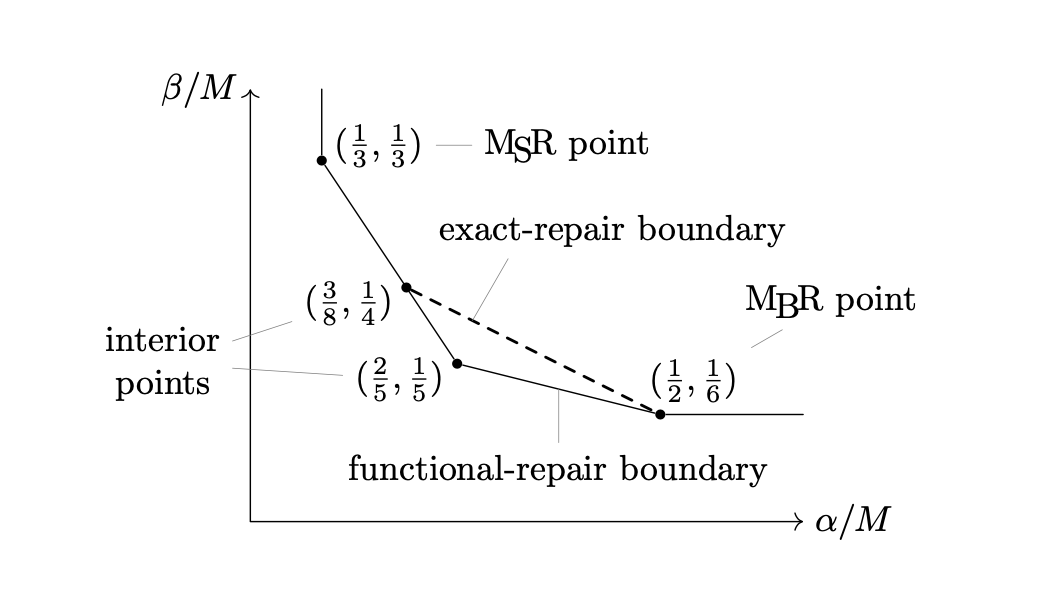
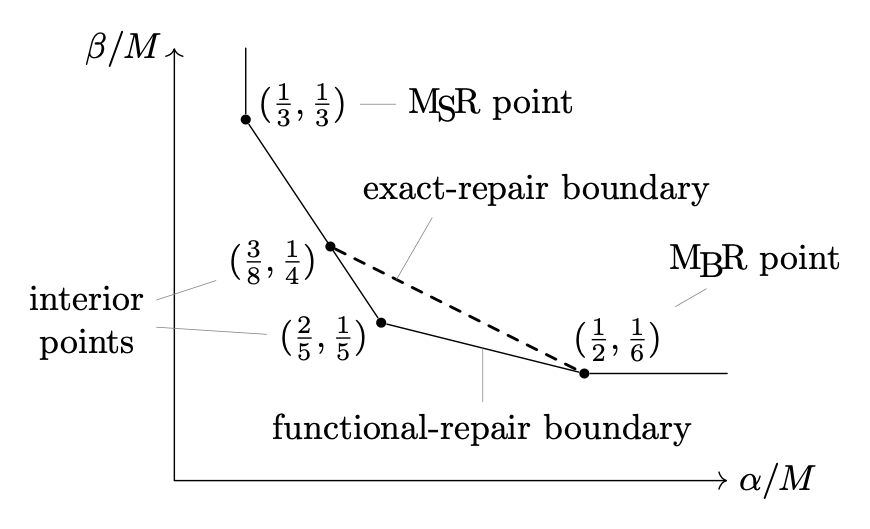
crop and typo

diff --git a/polar.md b/polar.md
@@ -12,7 +12,7 @@ From the oldest to the newest.
 | [Hypotenuse19] | Polar Codes' Simplicity, Random Codes' Durability |
 
 [ModerDevia18] focuses on the moderate deviations regime (MDR) of polar coding.
-MDR is also called the moderate deviations principle (MDP)
+MDR is also called the **moderate deviations principle** (MDP)
 paradigm in some references.
 It addresses the relation among block length ($N$),
 error probability ($P$), and code rate ($R$) in the region

diff --git a/storage.md b/storage.md
@@ -35,7 +35,7 @@ the node size $\alpha$ is at most $d\beta$.
 One can also show that $k-1$ nodes ($\alpha$)
 plus $d-k+1$ help messages ($\beta$) is at least $M$.
 There is a family of bounds of this type.
-They restrict where can those parameters live.
+They restrict where those parameters can live.
 
 The opposite approach is to construct regenerating codes
 that aim to achieve low $\alpha$ and $\beta$ and high $M$.
